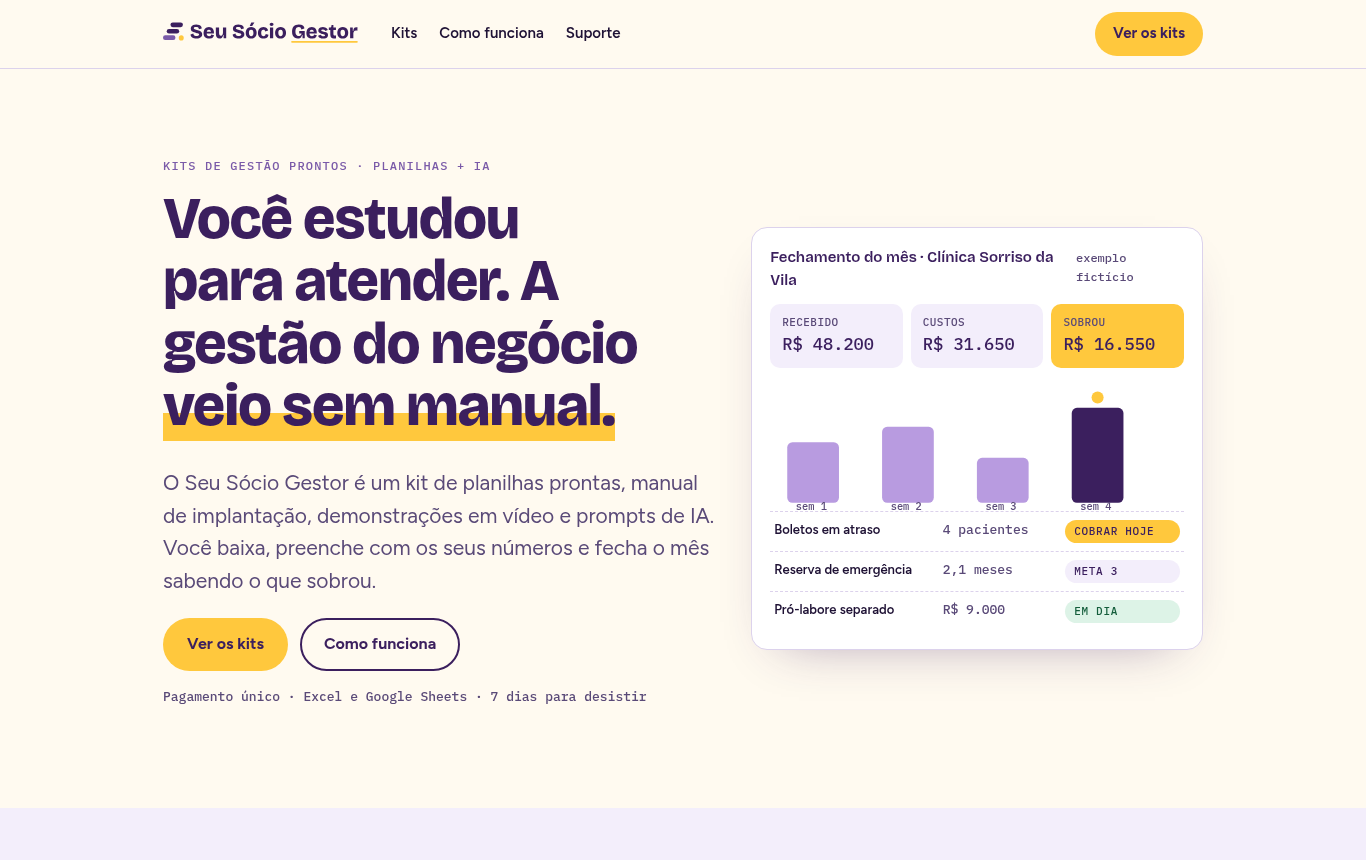
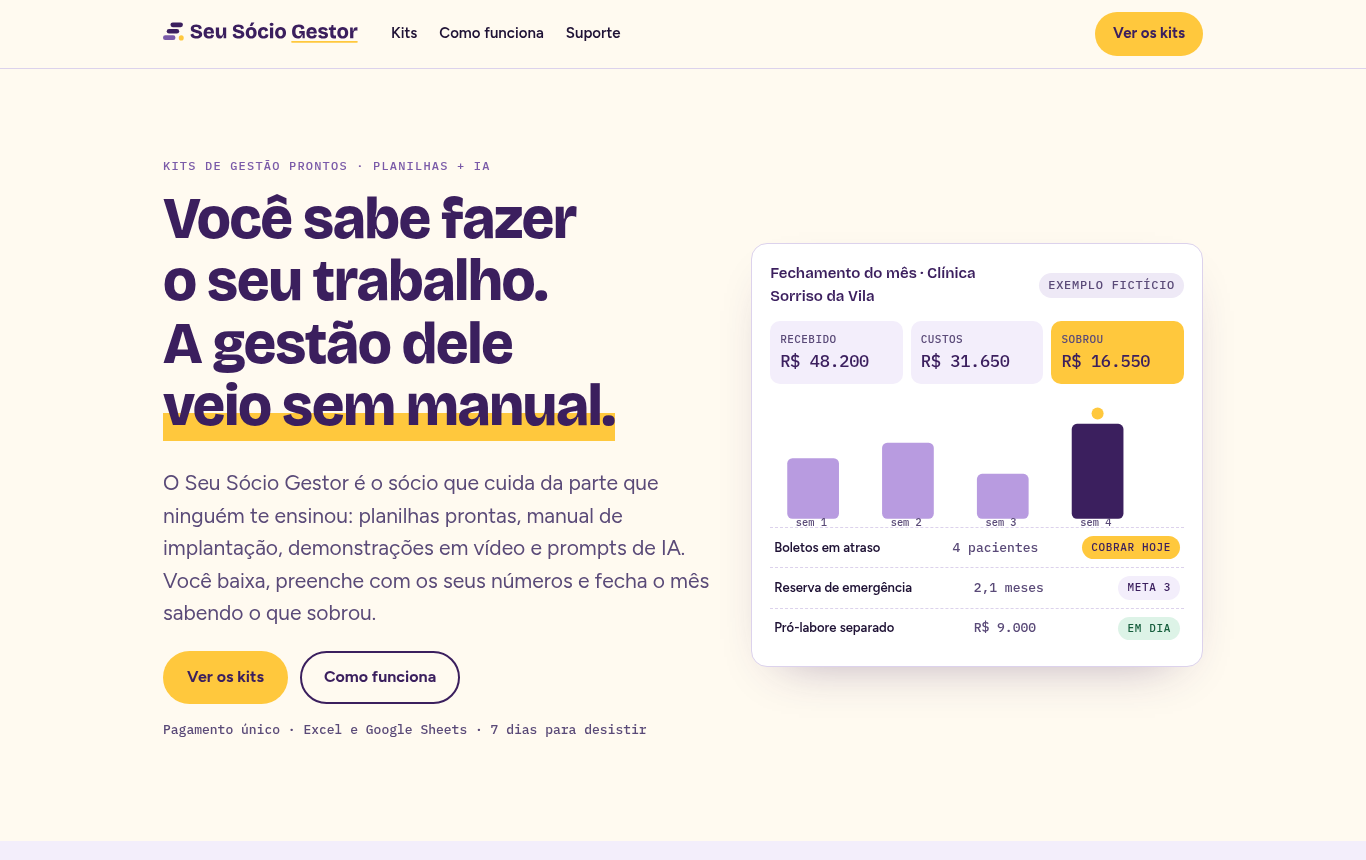
Site: dados da ZTRAINING, manchete inclusiva, alinhamento dos cards e do painel
Claude-Session: https://claude.ai/code/session_0146uBo6FVJ2cyEehyP8rK61

diff --git a/projetos/gestao-ia-planilhas/site/public/index.html b/projetos/gestao-ia-planilhas/site/public/index.html
@@ -4,10 +4,10 @@
 <meta charset="utf-8">
 <meta name="viewport" content="width=device-width, initial-scale=1">
 <title>Seu Sócio Gestor · Kits de gestão prontos: planilhas + IA, sem mensalidade</title>
-<meta name="description" content="Kits de planilhas prontas, manual e prompts de IA para quem estudou para atender, não para administrar. Você baixa, preenche e usa. Pagamento único.">
+<meta name="description" content="Kits de planilhas prontas, manual e prompts de IA para quem sabe fazer o próprio trabalho e nunca teve um sócio para cuidar da gestão. Você baixa, preenche e usa. Pagamento único.">
 <link rel="canonical" href="https://seusociogestor.com.br/">
 <meta property="og:title" content="Seu Sócio Gestor · Kits de gestão prontos: planilhas + IA, sem mensalidade">
-<meta property="og:description" content="Kits de planilhas prontas, manual e prompts de IA para quem estudou para atender, não para administrar. Você baixa, preenche e usa. Pagamento único.">
+<meta property="og:description" content="Kits de planilhas prontas, manual e prompts de IA para quem sabe fazer o próprio trabalho e nunca teve um sócio para cuidar da gestão. Você baixa, preenche e usa. Pagamento único.">
 <meta property="og:type" content="website">
 <meta property="og:url" content="https://seusociogestor.com.br/">
 <meta property="og:image" content="https://seusociogestor.com.br/assets/img/og-1200x630.png">
@@ -40,8 +40,8 @@
   <div class="wrap hero__in">
     <div>
       <p class="eyebrow">Kits de gestão prontos · planilhas + IA</p>
-      <h1>Você estudou para atender. A gestão do negócio <em>veio sem manual.</em></h1>
-      <p class="lead">O Seu Sócio Gestor é um kit de planilhas prontas, manual de implantação, demonstrações em vídeo e prompts de IA. Você baixa, preenche com os seus números e fecha o mês sabendo o que sobrou.</p>
+      <h1>Você sabe fazer o seu trabalho. A gestão dele <em>veio sem manual.</em></h1>
+      <p class="lead">O Seu Sócio Gestor é o sócio que cuida da parte que ninguém te ensinou: planilhas prontas, manual de implantação, demonstrações em vídeo e prompts de IA. Você baixa, preenche com os seus números e fecha o mês sabendo o que sobrou.</p>
       <div class="hero__acoes">
         <a class="btn btn--sol" href="#kits">Ver os kits</a>
         <a class="btn btn--linha" href="#como-funciona">Como funciona</a>
@@ -49,7 +49,7 @@
       <p class="hero__nota">Pagamento único · Excel e Google Sheets · 7 dias para desistir</p>
     </div>
     <div class="painel" aria-label="Exemplo ilustrativo de painel do kit, com dados fictícios">
-      <div class="painel__cab"><b>Fechamento do mês · Clínica Sorriso da Vila</b><span>exemplo fictício</span></div>
+      <div class="painel__cab"><b>Fechamento do mês · Clínica Sorriso da Vila</b><span class="tag tag--neutro">exemplo fictício</span></div>
       <div class="painel__kpis">
         <div class="kpi"><small>Recebido</small><b>R$ 48.200</b></div>
         <div class="kpi"><small>Custos</small><b>R$ 31.650</b></div>
@@ -168,7 +168,7 @@
     <div>
       <p class="eyebrow">Quem está por trás</p>
       <h2>Feito por uma empresa de dados, não por um guru</h2>
-      <p>O Seu Sócio Gestor é uma marca da <strong>Z2 Data Services (razão social completa a confirmar)</strong>, empresa brasileira de treinamento, consultoria e gestão de dados. Os kits são produzidos pela nossa equipe com apoio de ferramentas de inteligência artificial, testados com empresas fictícias e revisados antes de publicar.</p>
+      <p>O Seu Sócio Gestor é uma marca da <strong>ZTRAINING SERVICE LTDA</strong>, empresa brasileira de treinamento e consultoria em gestão, criada pelos sócios da Z2 Data Services, consultoria de dados. Os kits são produzidos pela nossa equipe com apoio de ferramentas de inteligência artificial, testados com empresas fictícias e revisados antes de publicar.</p>
       <p>Não gravamos vídeo com apresentador e não fazemos mentoria. O produto precisa funcionar sozinho, com o manual e a demonstração. Se não funcionar para você, o reembolso em até 7 dias é automático.</p>
       <p><a class="btn btn--uva" href="/sobre/">Conhecer a empresa</a></p>
     </div>
@@ -187,7 +187,7 @@
   <div class="wrap rodape__in">
     <div class="rodape__marca">
       <img src="/assets/img/logo-branco.svg" alt="Seu Sócio Gestor" width="196" height="44">
-      <p>Kits de gestão prontos para quem estudou para atender, não para administrar. Planilhas + IA. Sem mensalidade.</p>
+      <p>Kits de gestão prontos para quem sabe fazer o trabalho e nunca teve um sócio para cuidar do resto. Planilhas + IA. Sem mensalidade.</p>
     </div>
     <div class="rodape__col">
       <h2>Kits</h2>
@@ -208,7 +208,7 @@
       <a href="/sobre/">Quem está por trás</a>
     </div>
     <div class="rodape__legal">
-      <p><strong>Z2 Data Services (razão social completa a confirmar)</strong> · CNPJ 00.000.000/0001-00 (a preencher)<br>Endereço comercial a preencher, Cidade/UF, CEP<br>Atendimento: <a href="mailto:suporte@seusociogestor.com.br">suporte@seusociogestor.com.br</a> (resposta em até 5 dias úteis)</p>
+      <p><strong>ZTRAINING SERVICE LTDA</strong> · CNPJ 68.796.613/0001-10<br>Praça das Dracenas, 50, Térreo, Condomínio Centro Comercial Alphaville, Barueri/SP, CEP 06453-064<br>Atendimento: <a href="mailto:suporte@seusociogestor.com.br">suporte@seusociogestor.com.br</a> (resposta em até 5 dias úteis)</p>
       <p>Os kits são arquivos digitais de apoio à gestão. Não são software, não substituem contador, advogado ou profissional de saúde e não prometem resultado financeiro. Você pode desistir da compra em até 7 dias (CDC, art. 49).</p>
       <p>Este site não faz parte do Facebook, do Instagram ou da Meta Platforms, Inc., nem é endossado por eles.</p>
       <p class="rodape__mono">Última atualização 13 de setembro de 2026</p>

diff --git a/projetos/gestao-ia-planilhas/site/public/sobre/index.html b/projetos/gestao-ia-planilhas/site/public/sobre/index.html
@@ -4,10 +4,10 @@
 <meta charset="utf-8">
 <meta name="viewport" content="width=device-width, initial-scale=1">
 <title>Quem está por trás · Seu Sócio Gestor</title>
-<meta name="description" content="O Seu Sócio Gestor é uma marca da Z2 Data Services, empresa brasileira de treinamento, consultoria e gestão de dados. Conheça como os kits são feitos.">
+<meta name="description" content="O Seu Sócio Gestor é uma marca da ZTRAINING SERVICE LTDA, empresa brasileira de treinamento e consultoria em gestão. Conheça como os kits são feitos.">
 <link rel="canonical" href="https://seusociogestor.com.br/sobre/">
 <meta property="og:title" content="Quem está por trás · Seu Sócio Gestor">
-<meta property="og:description" content="O Seu Sócio Gestor é uma marca da Z2 Data Services, empresa brasileira de treinamento, consultoria e gestão de dados. Conheça como os kits são feitos.">
+<meta property="og:description" content="O Seu Sócio Gestor é uma marca da ZTRAINING SERVICE LTDA, empresa brasileira de treinamento e consultoria em gestão. Conheça como os kits são feitos.">
 <meta property="og:type" content="website">
 <meta property="og:url" content="https://seusociogestor.com.br/sobre/">
 <meta property="og:image" content="https://seusociogestor.com.br/assets/img/og-1200x630.png">
@@ -51,7 +51,7 @@
       <p class="lead">Uma marca de kits de gestão criada por uma empresa de dados. Sem guru, sem mentoria, sem promessa de ficar rico.</p>
 
       <h2 id="empresa">A empresa</h2>
-      <p>O Seu Sócio Gestor é uma marca da <strong>Z2 Data Services (razão social completa a confirmar)</strong>, CNPJ 00.000.000/0001-00 (a preencher), empresa brasileira que atua com treinamento, consultoria e gestão de dados. A ideia nasceu de uma observação simples: profissionais liberais passam anos estudando a profissão e nenhuma hora estudando como administrar o próprio negócio. Quando abrem o consultório ou o escritório, a gestão vem sem manual.</p>
+      <p>O Seu Sócio Gestor é uma marca da <strong>ZTRAINING SERVICE LTDA</strong>, CNPJ 68.796.613/0001-10, empresa brasileira de treinamento em desenvolvimento profissional e gerencial e consultoria em gestão, com sede em Barueri, SP. Foi criada pelos sócios da Z2 Data Services, consultoria de dados, para transformar em produto o que a gente via todo dia: quem trabalha por conta própria, do consultório ao aplicativo de entrega, aprende o ofício e nunca aprende a administrar. Quando o negócio começa, a gestão vem sem manual.</p>
       <p>Os kits são a nossa resposta: planilhas prontas, um manual que diz por onde começar, demonstrações em vídeo e prompts para usar inteligência artificial em cima dos seus números. Tudo por pagamento único, sem mensalidade.</p>
 
       <h2 id="como-fazemos">Como os kits são feitos</h2>
@@ -73,9 +73,9 @@
 
       <h2 id="contato">Contato e dados da empresa</h2>
       <table>
-        <tr><th>Razão social</th><td>Z2 Data Services (razão social completa a confirmar)</td></tr>
-        <tr><th>CNPJ</th><td>00.000.000/0001-00 (a preencher)</td></tr>
-        <tr><th>Endereço</th><td>Endereço comercial a preencher, Cidade/UF, CEP</td></tr>
+        <tr><th>Razão social</th><td>ZTRAINING SERVICE LTDA</td></tr>
+        <tr><th>CNPJ</th><td>68.796.613/0001-10</td></tr>
+        <tr><th>Endereço</th><td>Praça das Dracenas, 50, Térreo, Condomínio Centro Comercial Alphaville, Barueri/SP, CEP 06453-064</td></tr>
         <tr><th>Atendimento</th><td><a href="mailto:suporte@seusociogestor.com.br">suporte@seusociogestor.com.br</a>, resposta em até 5 dias úteis</td></tr>
         <tr><th>Privacidade e dados pessoais</th><td><a href="mailto:privacidade@seusociogestor.com.br">privacidade@seusociogestor.com.br</a></td></tr>
       </table>
@@ -89,7 +89,7 @@
   <div class="wrap rodape__in">
     <div class="rodape__marca">
       <img src="/assets/img/logo-branco.svg" alt="Seu Sócio Gestor" width="196" height="44">
-      <p>Kits de gestão prontos para quem estudou para atender, não para administrar. Planilhas + IA. Sem mensalidade.</p>
+      <p>Kits de gestão prontos para quem sabe fazer o trabalho e nunca teve um sócio para cuidar do resto. Planilhas + IA. Sem mensalidade.</p>
     </div>
     <div class="rodape__col">
       <h2>Kits</h2>
@@ -110,7 +110,7 @@
       <a href="/sobre/">Quem está por trás</a>
     </div>
     <div class="rodape__legal">
-      <p><strong>Z2 Data Services (razão social completa a confirmar)</strong> · CNPJ 00.000.000/0001-00 (a preencher)<br>Endereço comercial a preencher, Cidade/UF, CEP<br>Atendimento: <a href="mailto:suporte@seusociogestor.com.br">suporte@seusociogestor.com.br</a> (resposta em até 5 dias úteis)</p>
+      <p><strong>ZTRAINING SERVICE LTDA</strong> · CNPJ 68.796.613/0001-10<br>Praça das Dracenas, 50, Térreo, Condomínio Centro Comercial Alphaville, Barueri/SP, CEP 06453-064<br>Atendimento: <a href="mailto:suporte@seusociogestor.com.br">suporte@seusociogestor.com.br</a> (resposta em até 5 dias úteis)</p>
       <p>Os kits são arquivos digitais de apoio à gestão. Não são software, não substituem contador, advogado ou profissional de saúde e não prometem resultado financeiro. Você pode desistir da compra em até 7 dias (CDC, art. 49).</p>
       <p>Este site não faz parte do Facebook, do Instagram ou da Meta Platforms, Inc., nem é endossado por eles.</p>
       <p class="rodape__mono">Última atualização 13 de setembro de 2026</p>

diff --git a/projetos/gestao-ia-planilhas/site/public/termos/index.html b/projetos/gestao-ia-planilhas/site/public/termos/index.html
@@ -58,7 +58,7 @@
       <p class="lead">Escrito para ser lido. Se algo aqui não estiver claro, escreva para <a href="mailto:suporte@seusociogestor.com.br">suporte@seusociogestor.com.br</a>.</p>
 
       <h2 id="t1">1. Quem somos e o que vendemos</h2>
-      <p>Este site e os kits nele oferecidos pertencem a <strong>Z2 Data Services (razão social completa a confirmar)</strong>, CNPJ 00.000.000/0001-00 (a preencher), com sede em Endereço comercial a preencher, Cidade/UF, CEP ("nós"). Ao comprar um kit, você ("cliente") aceita estes termos.</p>
+      <p>Este site e os kits nele oferecidos pertencem a <strong>ZTRAINING SERVICE LTDA</strong>, CNPJ 68.796.613/0001-10, com sede em Praça das Dracenas, 50, Térreo, Condomínio Centro Comercial Alphaville, Barueri/SP, CEP 06453-064 ("nós"). Ao comprar um kit, você ("cliente") aceita estes termos.</p>
       <p>Vendemos <strong>produtos digitais de apoio à gestão</strong>: arquivos de planilha (Excel e Google Sheets), manuais em PDF, vídeos de demonstração e bibliotecas de prompts para ferramentas de inteligência artificial. Cada kit descreve na sua página exatamente o que contém. O que não está na descrição não faz parte do produto.</p>
 
       <h2 id="t2">2. Compra, preço e pagamento</h2>
@@ -85,7 +85,7 @@
         <li>Ao comprar, você recebe uma <strong>licença pessoal, não exclusiva e intransferível</strong> para usar os arquivos no seu próprio trabalho ou negócio, em quantos dispositivos quiser.</li>
         <li>Você pode editar, adaptar e preencher as planilhas à vontade para uso próprio.</li>
         <li>Não é permitido revender, redistribuir, compartilhar publicamente, sublicenciar, oferecer como brinde ou usar os arquivos para prestar serviço de implantação a terceiros. A remoção de marcas, avisos ou proteções de fórmula com esses fins também é vedada.</li>
-        <li>Todo o conteúdo (planilhas, textos, vídeos, prompts, marca e identidade visual) é protegido por direitos autorais e pertence a Z2 Data Services (razão social completa a confirmar).</li>
+        <li>Todo o conteúdo (planilhas, textos, vídeos, prompts, marca e identidade visual) é protegido por direitos autorais e pertence a ZTRAINING SERVICE LTDA.</li>
       </ul>
 
       <h2 id="t6">6. O que o kit não é</h2>
@@ -120,7 +120,7 @@
   <div class="wrap rodape__in">
     <div class="rodape__marca">
       <img src="/assets/img/logo-branco.svg" alt="Seu Sócio Gestor" width="196" height="44">
-      <p>Kits de gestão prontos para quem estudou para atender, não para administrar. Planilhas + IA. Sem mensalidade.</p>
+      <p>Kits de gestão prontos para quem sabe fazer o trabalho e nunca teve um sócio para cuidar do resto. Planilhas + IA. Sem mensalidade.</p>
     </div>
     <div class="rodape__col">
       <h2>Kits</h2>
@@ -141,7 +141,7 @@
       <a href="/sobre/">Quem está por trás</a>
     </div>
     <div class="rodape__legal">
-      <p><strong>Z2 Data Services (razão social completa a confirmar)</strong> · CNPJ 00.000.000/0001-00 (a preencher)<br>Endereço comercial a preencher, Cidade/UF, CEP<br>Atendimento: <a href="mailto:suporte@seusociogestor.com.br">suporte@seusociogestor.com.br</a> (resposta em até 5 dias úteis)</p>
+      <p><strong>ZTRAINING SERVICE LTDA</strong> · CNPJ 68.796.613/0001-10<br>Praça das Dracenas, 50, Térreo, Condomínio Centro Comercial Alphaville, Barueri/SP, CEP 06453-064<br>Atendimento: <a href="mailto:suporte@seusociogestor.com.br">suporte@seusociogestor.com.br</a> (resposta em até 5 dias úteis)</p>
       <p>Os kits são arquivos digitais de apoio à gestão. Não são software, não substituem contador, advogado ou profissional de saúde e não prometem resultado financeiro. Você pode desistir da compra em até 7 dias (CDC, art. 49).</p>
       <p>Este site não faz parte do Facebook, do Instagram ou da Meta Platforms, Inc., nem é endossado por eles.</p>
       <p class="rodape__mono">Última atualização 13 de setembro de 2026</p>

diff --git a/projetos/gestao-ia-planilhas/site/public/suporte/index.html b/projetos/gestao-ia-planilhas/site/public/suporte/index.html
@@ -73,7 +73,7 @@
       <h2 id="pagamento">Pagamento, nota e reembolso</h2>
       <div class="faq">
         <details><summary>Quais são as formas de pagamento?</summary><p>Pix (aprovação imediata) e cartão de crédito, com parcelamento. O valor total à vista e o total parcelado aparecem antes de você confirmar. O pagamento é processado por uma plataforma especializada; nós não vemos nem guardamos os dados do seu cartão.</p></details>
-        <details><summary>Recebo nota fiscal?</summary><p>Sim. A nota fiscal de serviço é emitida em nome de Z2 Data Services (razão social completa a confirmar) para o CPF ou CNPJ informado na compra e enviada por e-mail após o prazo de 7 dias de arrependimento.</p></details>
+        <details><summary>Recebo nota fiscal?</summary><p>Sim. A nota fiscal de serviço é emitida em nome de ZTRAINING SERVICE LTDA para o CPF ou CNPJ informado na compra e enviada por e-mail após o prazo de 7 dias de arrependimento.</p></details>
         <details><summary>Como funciona o reembolso?</summary><p>Você tem 7 dias corridos a partir da compra para desistir, sem precisar explicar (CDC, art. 49). Basta escrever para o atendimento ou usar a opção de reembolso na página do pedido. O valor volta pelo mesmo meio de pagamento. Detalhes em <a href="/reembolso/">Reembolso e arrependimento</a>.</p></details>
         <details><summary>Fui cobrado mais de uma vez ou não reconheço uma cobrança</summary><p>Escreva para o atendimento com a data e o valor. Cobranças duplicadas são estornadas pela plataforma de pagamento. Não use o banco para contestar antes de falar com a gente: o estorno direto é mais rápido.</p></details>
       </div>
@@ -87,7 +87,7 @@
   <div class="wrap rodape__in">
     <div class="rodape__marca">
       <img src="/assets/img/logo-branco.svg" alt="Seu Sócio Gestor" width="196" height="44">
-      <p>Kits de gestão prontos para quem estudou para atender, não para administrar. Planilhas + IA. Sem mensalidade.</p>
+      <p>Kits de gestão prontos para quem sabe fazer o trabalho e nunca teve um sócio para cuidar do resto. Planilhas + IA. Sem mensalidade.</p>
     </div>
     <div class="rodape__col">
       <h2>Kits</h2>
@@ -108,7 +108,7 @@
       <a href="/sobre/">Quem está por trás</a>
     </div>
     <div class="rodape__legal">
-      <p><strong>Z2 Data Services (razão social completa a confirmar)</strong> · CNPJ 00.000.000/0001-00 (a preencher)<br>Endereço comercial a preencher, Cidade/UF, CEP<br>Atendimento: <a href="mailto:suporte@seusociogestor.com.br">suporte@seusociogestor.com.br</a> (resposta em até 5 dias úteis)</p>
+      <p><strong>ZTRAINING SERVICE LTDA</strong> · CNPJ 68.796.613/0001-10<br>Praça das Dracenas, 50, Térreo, Condomínio Centro Comercial Alphaville, Barueri/SP, CEP 06453-064<br>Atendimento: <a href="mailto:suporte@seusociogestor.com.br">suporte@seusociogestor.com.br</a> (resposta em até 5 dias úteis)</p>
       <p>Os kits são arquivos digitais de apoio à gestão. Não são software, não substituem contador, advogado ou profissional de saúde e não prometem resultado financeiro. Você pode desistir da compra em até 7 dias (CDC, art. 49).</p>
       <p>Este site não faz parte do Facebook, do Instagram ou da Meta Platforms, Inc., nem é endossado por eles.</p>
       <p class="rodape__mono">Última atualização 13 de setembro de 2026</p>

diff --git a/projetos/gestao-ia-planilhas/site/src/pages/index.html b/projetos/gestao-ia-planilhas/site/src/pages/index.html
@@ -1,14 +1,14 @@
 <!--
 title: Seu Sócio Gestor · Kits de gestão prontos: planilhas + IA, sem mensalidade
-description: Kits de planilhas prontas, manual e prompts de IA para quem estudou para atender, não para administrar. Você baixa, preenche e usa. Pagamento único.
+description: Kits de planilhas prontas, manual e prompts de IA para quem sabe fazer o próprio trabalho e nunca teve um sócio para cuidar da gestão. Você baixa, preenche e usa. Pagamento único.
 body_class: pagina-home
 -->
 <section class="hero">
   <div class="wrap hero__in">
     <div>
       <p class="eyebrow">Kits de gestão prontos · planilhas + IA</p>
-      <h1>Você estudou para atender. A gestão do negócio <em>veio sem manual.</em></h1>
-      <p class="lead">O Seu Sócio Gestor é um kit de planilhas prontas, manual de implantação, demonstrações em vídeo e prompts de IA. Você baixa, preenche com os seus números e fecha o mês sabendo o que sobrou.</p>
+      <h1>Você sabe fazer o seu trabalho. A gestão dele <em>veio sem manual.</em></h1>
+      <p class="lead">O Seu Sócio Gestor é o sócio que cuida da parte que ninguém te ensinou: planilhas prontas, manual de implantação, demonstrações em vídeo e prompts de IA. Você baixa, preenche com os seus números e fecha o mês sabendo o que sobrou.</p>
       <div class="hero__acoes">
         <a class="btn btn--sol" href="#kits">Ver os kits</a>
         <a class="btn btn--linha" href="#como-funciona">Como funciona</a>
@@ -16,7 +16,7 @@ body_class: pagina-home
       <p class="hero__nota">Pagamento único · Excel e Google Sheets · 7 dias para desistir</p>
     </div>
     <div class="painel" aria-label="Exemplo ilustrativo de painel do kit, com dados fictícios">
-      <div class="painel__cab"><b>Fechamento do mês · Clínica Sorriso da Vila</b><span>exemplo fictício</span></div>
+      <div class="painel__cab"><b>Fechamento do mês · Clínica Sorriso da Vila</b><span class="tag tag--neutro">exemplo fictício</span></div>
       <div class="painel__kpis">
         <div class="kpi"><small>Recebido</small><b>R$ 48.200</b></div>
         <div class="kpi"><small>Custos</small><b>R$ 31.650</b></div>
@@ -135,7 +135,7 @@ body_class: pagina-home
     <div>
       <p class="eyebrow">Quem está por trás</p>
       <h2>Feito por uma empresa de dados, não por um guru</h2>
-      <p>O Seu Sócio Gestor é uma marca da <strong>{{empresa.razao_social}}</strong>, empresa brasileira de treinamento, consultoria e gestão de dados. Os kits são produzidos pela nossa equipe com apoio de ferramentas de inteligência artificial, testados com empresas fictícias e revisados antes de publicar.</p>
+      <p>O Seu Sócio Gestor é uma marca da <strong>{{empresa.razao_social}}</strong>, empresa brasileira de treinamento e consultoria em gestão, criada pelos sócios da Z2 Data Services, consultoria de dados. Os kits são produzidos pela nossa equipe com apoio de ferramentas de inteligência artificial, testados com empresas fictícias e revisados antes de publicar.</p>
       <p>Não gravamos vídeo com apresentador e não fazemos mentoria. O produto precisa funcionar sozinho, com o manual e a demonstração. Se não funcionar para você, o reembolso em até 7 dias é automático.</p>
       <p><a class="btn btn--uva" href="/sobre/">Conhecer a empresa</a></p>
     </div>

diff --git a/projetos/gestao-ia-planilhas/site/public/assets/css/site.css b/projetos/gestao-ia-planilhas/site/public/assets/css/site.css
@@ -61,16 +61,18 @@ p{margin:0 0 1em;max-width:65ch}
 .hero__acoes{display:flex;flex-wrap:wrap;gap:12px;margin-top:8px}
 .hero__nota{font-family:var(--mono);font-size:13px;color:var(--tinta-2);margin-top:16px}
 .painel{background:#fff;border:1px solid var(--linha);border-radius:16px;padding:18px;box-shadow:0 20px 50px -30px rgba(59,31,94,.45);max-width:520px;justify-self:center;width:100%}
-.painel__cab{display:flex;justify-content:space-between;align-items:baseline;gap:12px;margin-bottom:12px}
+.painel__cab{display:flex;justify-content:space-between;align-items:center;gap:12px;margin-bottom:12px}
+.painel__cab .tag{flex:none;white-space:nowrap}
 .painel__cab b{font-family:var(--display);font-weight:600;color:var(--uva);font-size:15px}
 .painel__cab span{font-family:var(--mono);font-size:12px;color:var(--tinta-2)}
 .painel__kpis{display:grid;grid-template-columns:repeat(3,1fr);gap:8px;margin-bottom:14px}
-.kpi{background:var(--lavanda);border-radius:10px;padding:10px 12px}
+.kpi{background:var(--lavanda);border-radius:10px;padding:10px 10px;min-width:0}
 .kpi small{display:block;font-size:11px;color:var(--tinta-2);letter-spacing:.04em;text-transform:uppercase;font-family:var(--mono)}
-.kpi b{font-family:var(--mono);font-weight:500;font-size:17px;color:var(--uva);font-variant-numeric:tabular-nums}
+.kpi b{font-family:var(--mono);font-weight:500;font-size:clamp(13px,3.6vw,17px);letter-spacing:-.02em;white-space:nowrap;color:var(--uva);font-variant-numeric:tabular-nums}
 .kpi--sol{background:var(--sol)}
 .painel__grafico{width:100%;height:auto}
-.painel__linha{display:grid;grid-template-columns:1.4fr 1fr 1fr;gap:8px;font-size:13px;padding:8px 4px;border-top:1px dashed var(--linha)}
+.painel__linha{display:grid;grid-template-columns:1.4fr 1fr auto;gap:8px;align-items:center;font-size:13px;padding:8px 4px;border-top:1px dashed var(--linha)}
+.painel__linha .tag{justify-self:end;white-space:nowrap}
 .painel__linha b{font-weight:600;color:var(--tinta)}
 .painel__linha .mono{color:var(--tinta-2)}
 .tag{display:inline-block;font-family:var(--mono);font-size:11px;letter-spacing:.06em;text-transform:uppercase;padding:3px 9px;border-radius:var(--pill);font-weight:500}
@@ -92,8 +94,9 @@ p{margin:0 0 1em;max-width:65ch}
 @media (min-width:980px){.kits{grid-template-columns:repeat(3,1fr)}}
 .kit{background:#fff;border:1px solid var(--linha);border-radius:14px;padding:20px;display:grid;grid-template-rows:auto auto 1fr auto;gap:10px;position:relative}
 .kit--destaque{border-color:var(--uva);box-shadow:0 0 0 3px var(--creme),0 0 0 4px var(--uva)}
-.kit__topo{display:flex;justify-content:space-between;align-items:center;gap:8px}
-.kit__para{font-family:var(--mono);font-size:12px;letter-spacing:.06em;text-transform:uppercase;color:var(--lilas)}
+.kit__topo{display:flex;justify-content:space-between;align-items:center;gap:10px}
+.kit__topo .tag{flex:none;white-space:nowrap}
+.kit__para{font-family:var(--mono);font-size:12px;letter-spacing:.06em;text-transform:uppercase;color:var(--lilas);line-height:1.3}
 .kit h3{margin:0;font-weight:800;color:var(--uva);font-size:21px;letter-spacing:-.02em}
 .kit p{font-size:15px;color:var(--tinta-2);margin:0}
 .kit__preco{font-family:var(--mono);font-size:14px;color:var(--tinta);padding-top:10px;border-top:1px dashed var(--linha)}

diff --git a/projetos/gestao-ia-planilhas/site/public/privacidade/index.html b/projetos/gestao-ia-planilhas/site/public/privacidade/index.html
@@ -57,7 +57,7 @@
       <p class="lead">Coletamos o mínimo para vender, entregar e emitir a nota. Medição e publicidade só com a sua permissão.</p>
 
       <h2 id="p1">1. Quem trata os dados</h2>
-      <p>Controladora: <strong>Z2 Data Services (razão social completa a confirmar)</strong>, CNPJ 00.000.000/0001-00 (a preencher), Endereço comercial a preencher, Cidade/UF, CEP. Encarregado pelo tratamento de dados pessoais (DPO): contato por <a href="mailto:privacidade@seusociogestor.com.br">privacidade@seusociogestor.com.br</a>.</p>
+      <p>Controladora: <strong>ZTRAINING SERVICE LTDA</strong>, CNPJ 68.796.613/0001-10, Praça das Dracenas, 50, Térreo, Condomínio Centro Comercial Alphaville, Barueri/SP, CEP 06453-064. Encarregado pelo tratamento de dados pessoais (DPO): contato por <a href="mailto:privacidade@seusociogestor.com.br">privacidade@seusociogestor.com.br</a>.</p>
 
       <h2 id="p2">2. Quais dados coletamos e para quê</h2>
       <div class="tabela-wrap"><table>
@@ -115,7 +115,7 @@
   <div class="wrap rodape__in">
     <div class="rodape__marca">
       <img src="/assets/img/logo-branco.svg" alt="Seu Sócio Gestor" width="196" height="44">
-      <p>Kits de gestão prontos para quem estudou para atender, não para administrar. Planilhas + IA. Sem mensalidade.</p>
+      <p>Kits de gestão prontos para quem sabe fazer o trabalho e nunca teve um sócio para cuidar do resto. Planilhas + IA. Sem mensalidade.</p>
     </div>
     <div class="rodape__col">
       <h2>Kits</h2>
@@ -136,7 +136,7 @@
       <a href="/sobre/">Quem está por trás</a>
     </div>
     <div class="rodape__legal">
-      <p><strong>Z2 Data Services (razão social completa a confirmar)</strong> · CNPJ 00.000.000/0001-00 (a preencher)<br>Endereço comercial a preencher, Cidade/UF, CEP<br>Atendimento: <a href="mailto:suporte@seusociogestor.com.br">suporte@seusociogestor.com.br</a> (resposta em até 5 dias úteis)</p>
+      <p><strong>ZTRAINING SERVICE LTDA</strong> · CNPJ 68.796.613/0001-10<br>Praça das Dracenas, 50, Térreo, Condomínio Centro Comercial Alphaville, Barueri/SP, CEP 06453-064<br>Atendimento: <a href="mailto:suporte@seusociogestor.com.br">suporte@seusociogestor.com.br</a> (resposta em até 5 dias úteis)</p>
       <p>Os kits são arquivos digitais de apoio à gestão. Não são software, não substituem contador, advogado ou profissional de saúde e não prometem resultado financeiro. Você pode desistir da compra em até 7 dias (CDC, art. 49).</p>
       <p>Este site não faz parte do Facebook, do Instagram ou da Meta Platforms, Inc., nem é endossado por eles.</p>
       <p class="rodape__mono">Última atualização 13 de setembro de 2026</p>

diff --git a/projetos/gestao-ia-planilhas/site/src/pages/sobre.html b/projetos/gestao-ia-planilhas/site/src/pages/sobre.html
@@ -1,6 +1,6 @@
 <!--
 title: Quem está por trás · Seu Sócio Gestor
-description: O Seu Sócio Gestor é uma marca da Z2 Data Services, empresa brasileira de treinamento, consultoria e gestão de dados. Conheça como os kits são feitos.
+description: O Seu Sócio Gestor é uma marca da ZTRAINING SERVICE LTDA, empresa brasileira de treinamento e consultoria em gestão. Conheça como os kits são feitos.
 -->
 <section class="doc">
   <div class="wrap doc__in">
@@ -17,7 +17,7 @@ description: O Seu Sócio Gestor é uma marca da Z2 Data Services, empresa brasi
       <p class="lead">Uma marca de kits de gestão criada por uma empresa de dados. Sem guru, sem mentoria, sem promessa de ficar rico.</p>
 
       <h2 id="empresa">A empresa</h2>
-      <p>O Seu Sócio Gestor é uma marca da <strong>{{empresa.razao_social}}</strong>, CNPJ {{empresa.cnpj}}, empresa brasileira que atua com treinamento, consultoria e gestão de dados. A ideia nasceu de uma observação simples: profissionais liberais passam anos estudando a profissão e nenhuma hora estudando como administrar o próprio negócio. Quando abrem o consultório ou o escritório, a gestão vem sem manual.</p>
+      <p>O Seu Sócio Gestor é uma marca da <strong>{{empresa.razao_social}}</strong>, CNPJ {{empresa.cnpj}}, empresa brasileira de treinamento em desenvolvimento profissional e gerencial e consultoria em gestão, com sede em Barueri, SP. Foi criada pelos sócios da Z2 Data Services, consultoria de dados, para transformar em produto o que a gente via todo dia: quem trabalha por conta própria, do consultório ao aplicativo de entrega, aprende o ofício e nunca aprende a administrar. Quando o negócio começa, a gestão vem sem manual.</p>
       <p>Os kits são a nossa resposta: planilhas prontas, um manual que diz por onde começar, demonstrações em vídeo e prompts para usar inteligência artificial em cima dos seus números. Tudo por pagamento único, sem mensalidade.</p>
 
       <h2 id="como-fazemos">Como os kits são feitos</h2>

diff --git a/projetos/gestao-ia-planilhas/site/public/cookies/index.html b/projetos/gestao-ia-planilhas/site/public/cookies/index.html
@@ -97,7 +97,7 @@
   <div class="wrap rodape__in">
     <div class="rodape__marca">
       <img src="/assets/img/logo-branco.svg" alt="Seu Sócio Gestor" width="196" height="44">
-      <p>Kits de gestão prontos para quem estudou para atender, não para administrar. Planilhas + IA. Sem mensalidade.</p>
+      <p>Kits de gestão prontos para quem sabe fazer o trabalho e nunca teve um sócio para cuidar do resto. Planilhas + IA. Sem mensalidade.</p>
     </div>
     <div class="rodape__col">
       <h2>Kits</h2>
@@ -118,7 +118,7 @@
       <a href="/sobre/">Quem está por trás</a>
     </div>
     <div class="rodape__legal">
-      <p><strong>Z2 Data Services (razão social completa a confirmar)</strong> · CNPJ 00.000.000/0001-00 (a preencher)<br>Endereço comercial a preencher, Cidade/UF, CEP<br>Atendimento: <a href="mailto:suporte@seusociogestor.com.br">suporte@seusociogestor.com.br</a> (resposta em até 5 dias úteis)</p>
+      <p><strong>ZTRAINING SERVICE LTDA</strong> · CNPJ 68.796.613/0001-10<br>Praça das Dracenas, 50, Térreo, Condomínio Centro Comercial Alphaville, Barueri/SP, CEP 06453-064<br>Atendimento: <a href="mailto:suporte@seusociogestor.com.br">suporte@seusociogestor.com.br</a> (resposta em até 5 dias úteis)</p>
       <p>Os kits são arquivos digitais de apoio à gestão. Não são software, não substituem contador, advogado ou profissional de saúde e não prometem resultado financeiro. Você pode desistir da compra em até 7 dias (CDC, art. 49).</p>
       <p>Este site não faz parte do Facebook, do Instagram ou da Meta Platforms, Inc., nem é endossado por eles.</p>
       <p class="rodape__mono">Última atualização 13 de setembro de 2026</p>

diff --git a/projetos/gestao-ia-planilhas/site/public/reembolso/index.html b/projetos/gestao-ia-planilhas/site/public/reembolso/index.html
@@ -85,7 +85,7 @@
   <div class="wrap rodape__in">
     <div class="rodape__marca">
       <img src="/assets/img/logo-branco.svg" alt="Seu Sócio Gestor" width="196" height="44">
-      <p>Kits de gestão prontos para quem estudou para atender, não para administrar. Planilhas + IA. Sem mensalidade.</p>
+      <p>Kits de gestão prontos para quem sabe fazer o trabalho e nunca teve um sócio para cuidar do resto. Planilhas + IA. Sem mensalidade.</p>
     </div>
     <div class="rodape__col">
       <h2>Kits</h2>
@@ -106,7 +106,7 @@
       <a href="/sobre/">Quem está por trás</a>
     </div>
     <div class="rodape__legal">
-      <p><strong>Z2 Data Services (razão social completa a confirmar)</strong> · CNPJ 00.000.000/0001-00 (a preencher)<br>Endereço comercial a preencher, Cidade/UF, CEP<br>Atendimento: <a href="mailto:suporte@seusociogestor.com.br">suporte@seusociogestor.com.br</a> (resposta em até 5 dias úteis)</p>
+      <p><strong>ZTRAINING SERVICE LTDA</strong> · CNPJ 68.796.613/0001-10<br>Praça das Dracenas, 50, Térreo, Condomínio Centro Comercial Alphaville, Barueri/SP, CEP 06453-064<br>Atendimento: <a href="mailto:suporte@seusociogestor.com.br">suporte@seusociogestor.com.br</a> (resposta em até 5 dias úteis)</p>
       <p>Os kits são arquivos digitais de apoio à gestão. Não são software, não substituem contador, advogado ou profissional de saúde e não prometem resultado financeiro. Você pode desistir da compra em até 7 dias (CDC, art. 49).</p>
       <p>Este site não faz parte do Facebook, do Instagram ou da Meta Platforms, Inc., nem é endossado por eles.</p>
       <p class="rodape__mono">Última atualização 13 de setembro de 2026</p>

diff --git a/projetos/gestao-ia-planilhas/site/public/404.html b/projetos/gestao-ia-planilhas/site/public/404.html
@@ -47,7 +47,7 @@
   <div class="wrap rodape__in">
     <div class="rodape__marca">
       <img src="/assets/img/logo-branco.svg" alt="Seu Sócio Gestor" width="196" height="44">
-      <p>Kits de gestão prontos para quem estudou para atender, não para administrar. Planilhas + IA. Sem mensalidade.</p>
+      <p>Kits de gestão prontos para quem sabe fazer o trabalho e nunca teve um sócio para cuidar do resto. Planilhas + IA. Sem mensalidade.</p>
     </div>
     <div class="rodape__col">
       <h2>Kits</h2>
@@ -68,7 +68,7 @@
       <a href="/sobre/">Quem está por trás</a>
     </div>
     <div class="rodape__legal">
-      <p><strong>Z2 Data Services (razão social completa a confirmar)</strong> · CNPJ 00.000.000/0001-00 (a preencher)<br>Endereço comercial a preencher, Cidade/UF, CEP<br>Atendimento: <a href="mailto:suporte@seusociogestor.com.br">suporte@seusociogestor.com.br</a> (resposta em até 5 dias úteis)</p>
+      <p><strong>ZTRAINING SERVICE LTDA</strong> · CNPJ 68.796.613/0001-10<br>Praça das Dracenas, 50, Térreo, Condomínio Centro Comercial Alphaville, Barueri/SP, CEP 06453-064<br>Atendimento: <a href="mailto:suporte@seusociogestor.com.br">suporte@seusociogestor.com.br</a> (resposta em até 5 dias úteis)</p>
       <p>Os kits são arquivos digitais de apoio à gestão. Não são software, não substituem contador, advogado ou profissional de saúde e não prometem resultado financeiro. Você pode desistir da compra em até 7 dias (CDC, art. 49).</p>
       <p>Este site não faz parte do Facebook, do Instagram ou da Meta Platforms, Inc., nem é endossado por eles.</p>
       <p class="rodape__mono">Última atualização 13 de setembro de 2026</p>

diff --git a/projetos/gestao-ia-planilhas/site/src/layout.html b/projetos/gestao-ia-planilhas/site/src/layout.html
@@ -41,7 +41,7 @@
   <div class="wrap rodape__in">
     <div class="rodape__marca">
       <img src="/assets/img/logo-branco.svg" alt="Seu Sócio Gestor" width="196" height="44">
-      <p>Kits de gestão prontos para quem estudou para atender, não para administrar. Planilhas + IA. Sem mensalidade.</p>
+      <p>Kits de gestão prontos para quem sabe fazer o trabalho e nunca teve um sócio para cuidar do resto. Planilhas + IA. Sem mensalidade.</p>
     </div>
     <div class="rodape__col">
       <h2>Kits</h2>
